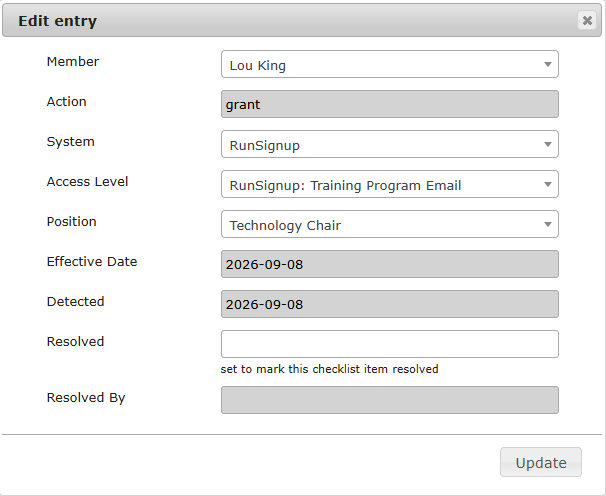
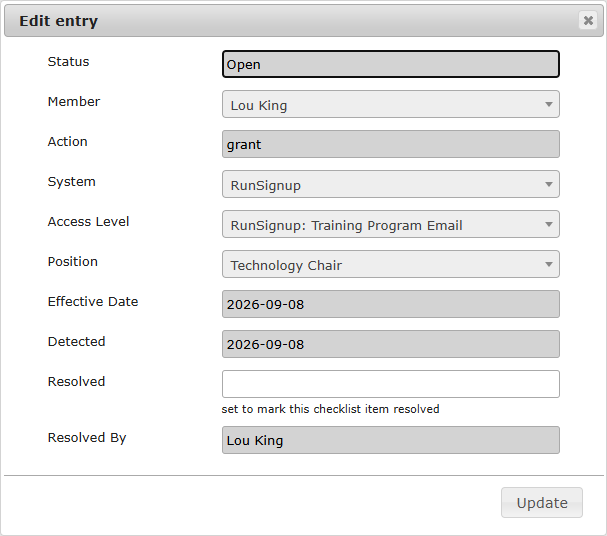
Fix Access Checklist filters and prevent editing system-generated fields (#716)
Filters: the four relationship columns' yadcf column_selector needed a
dotted path into the labelfield key ('user.name:name', not 'user:name') --
a single relationship cell's raw data is {"id":..,"<labelfield>":..}, not a
plain string, matching the convention distribution_yadcf_options already
uses. All five filters (including the checkbox-driven status default) were
bundled in one yadcf.init() call, so the four malformed selectors broke
that whole call, which is why the "show resolved entries" checkbox had no
visible effect either. Also declared the Status filter's two values
explicitly (data=['Open', 'Resolved']) rather than relying on yadcf's
auto-detection from whatever happens to be loaded, since a table with only
open or only resolved rows would otherwise have no option to filter to.

Read-only enforcement: 'type': 'readonly' on a clientcolumn only blocks
server-side writes for plain fields -- loutilities.tables' constructor
unconditionally makes a '_treatment': {'relationship': ...} field writable
regardless, with no readonly check in that code path at all. Confirmed
live: an admin could reassign a notice's Member/System/Access Level/
Position through the edit modal and have it silently persist. Fixed with
a validate= callback (positionaccessnotice_validate) that rejects the edit
if any of those four fields don't match the notice's current values, and
a ReadOnlySelect2 optionspicker (same pattern already used in
[…]

diff --git a/app/src/members/static/admin/afterdatatables.js b/app/src/members/static/admin/afterdatatables.js
@@ -686,5 +686,18 @@ function afterdatatables() {
                 yadcf.exFilterColumn(_dt_table, [[activecol, 'yes']]);
             }
         });
+
+    // special processing for access checklist -- hide resolved entries by default (see #716)
+    } else if (location.pathname.includes('/accesschecklist')) {
+        var statuscol = get_yadcf_col('status-filter');
+        yadcf.exFilterColumn(_dt_table, [[statuscol, 'Open']]);
+
+        $('#show-resolved-status').change(function() {
+            if ($('#show-resolved-status').is(':checked')) {
+                yadcf.exResetAllFilters(_dt_table, [statuscol])
+            } else {
+                yadcf.exFilterColumn(_dt_table, [[statuscol, 'Open']]);
+            }
+        });
     }
 }

diff --git a/app/src/members/views/admin/access_admin.py b/app/src/members/views/admin/access_admin.py
@@ -8,6 +8,7 @@ from datetime import date
 # pypi
 from flask import request
 from flask_security import current_user
+from dominate.tags import div, input_, label
 
 # homegrown
 from . import bp
@@ -21,6 +22,8 @@ from ...roles import ROLE_SYSTEMS_ADMIN
 from ...helpers import members_active
 from ...organization_access import compute_required_access, sync_access_notices
 
+from loutilities.filters import filtercontainerdiv, filterdiv, yadcfoption
+from loutilities.tables import DteDbRelationship
 from loutilities.user.roles import ROLE_SUPER_ADMIN
 from loutilities.user.tables import DbCrudApiInterestsRolePermissions
 
@@ -286,9 +289,9 @@ accesstype_view.register()
 ###########################################################################################
 
 positionaccessnotice_dbattrs = ('id,interest_id,user,system,accesslevel,action,reason_position,'
-                                 'effective_date,detected_at,resolved_at,__readonly__').split(',')
+                                 'effective_date,detected_at,resolved_at,__readonly__,status').split(',')
 positionaccessnotice_formfields = ('rowid,interest_id,user,system,accesslevel,action,reason_position,'
-                                    'effective_date,detected_at,resolved_at,resolvedby_display').split(',')
+                                    'effective_date,detected_at,resolved_at,resolvedby_display,status').split(',')
 positionaccessnotice_dbmapping = dict(zip(positionaccessnotice_dbattrs, positionaccessnotice_formfields))
 positionaccessnotice_formmapping = dict(zip(positionaccessnotice_formfields, positionaccessnotice_dbattrs))
 
@@ -307,6 +310,111 @@ positionaccessnotice_formmapping['resolved_at'] = lambda dbrow: dtrender.dt2asc(
     if dbrow.resolved_at else ''
 positionaccessnotice_formmapping['resolvedby_display'] = lambda dbrow: dbrow.resolved_by.name \
     if dbrow.resolved_by else ''
+# computed display/filter field -- not a real column, 'type': 'readonly' on the clientcolumn
+# makes the framework treat its dbattr as __readonly__ automatically (see position_formmapping's
+# 'users' for the same pattern). Used both to show status at a glance and as the target of the
+# hidden yadcf filter driving the "show resolved entries" checkbox -- see afterdatatables.js
+positionaccessnotice_formmapping['status'] = lambda dbrow: 'Resolved' if dbrow.resolved_at else 'Open'
+
+def positionaccessnotice_pretablehtml():
+    pretablehtml = div()
+    with pretablehtml:
+        # hide / show resolved entries -- unresolved-only is the normal working view
+        resolvedfilter = div(_class='checkbox-filter')
+        with resolvedfilter:
+            input_(type='checkbox', id='show-resolved-status', name='show-resolved-status', value='show-resolved')
+            label('Show resolved entries', _for='show-resolved-status')
+
+        with filtercontainerdiv(style='margin-bottom: 4px;'):
+            filterdiv('accesschecklist-external-filter-member', 'Member')
+            filterdiv('accesschecklist-external-filter-system', 'System')
+            filterdiv('accesschecklist-external-filter-accesslevel', 'Access Level')
+            filterdiv('accesschecklist-external-filter-position', 'Position')
+
+        # hidden -- driven by the show-resolved-status checkbox in afterdatatables.js, not
+        # shown as its own dropdown (the checkbox is the intended interaction)
+        with filtercontainerdiv(style='display:none;'):
+            filterdiv('status-filter', 'Status')
+
+    return pretablehtml.render()
+
+positionaccessnotice_yadcf_options = [
+    # dotted column_selector paths into each relationship's labelfield key -- a single
+    # (uselist=False) relationship cell's raw data is {"id":.., "<labelfield>":..}, e.g.
+    # accesslevel's is {"id":34,"label":"..."} since its labelfield is 'label'; yadcf needs
+    # the labelfield key specifically, not the whole object (same convention as
+    # distribution_yadcf_options' 'tags.tag:name'/'positions.position:name' above)
+    yadcfoption('user.name:name', 'accesschecklist-external-filter-member', 'multi_select',
+                placeholder='Select member', width='200px'),
+    yadcfoption('system.name:name', 'accesschecklist-external-filter-system', 'multi_select',
+                placeholder='Select system', width='200px'),
+    yadcfoption('accesslevel.label:name', 'accesschecklist-external-filter-accesslevel', 'multi_select',
+                placeholder='Select access level', width='200px'),
+    yadcfoption('reason_position.position:name', 'accesschecklist-external-filter-position', 'multi_select',
+                placeholder='Select position', width='200px'),
+    # data=[...] declares the two possible values explicitly rather than letting yadcf
+    # auto-detect them from what's currently in the table -- multi_select's dropdown only
+    # gets an 'Open'/'Resolved' option for values actually present in the loaded rows, so
+    # without this, exFilterColumn(..., 'Open') silently no-ops (nothing to select) whenever
+    # every currently-loaded row happens to already be resolved (or vice versa)
+    yadcfoption('status:name', 'status-filter', 'multi_select', uselist=True, placeholder='Select status',
+                data=['Open', 'Resolved']),
+]
+
+class ReadOnlySelect2(DteDbRelationship):
+    '''
+    'type': 'readonly' on a clientcolumn doesn't grey out a relationship-treatment field's
+    select2 widget in the Editor form (it's still fully interactive) -- disable it directly
+    instead, same pattern as leadership_tasks_admin.ReadOnlySelect2
+    '''
+    def col_options(self):
+        col = super().col_options()
+        col['opts']['disabled'] = True
+        return col
+
+# only Resolved should be editable on this view; every other field is system-generated.
+# 'type': 'readonly' on the other clientcolumns handles that correctly for plain fields, but
+# NOT for the four relationship-treatment ones (user/system/accesslevel/reason_position) --
+# loutilities.tables' constructor unconditionally makes a '_treatment': {'relationship': ...}
+# field writable server-side (self.dbmapping[dbattr] = thisreln.set), with no readonly check
+# at all. Confirmed live: an admin could reassign a notice's Member/System/Access Level/
+# Position via the edit modal and have it silently persist. A dbmapping patch on the view
+# instance doesn't help either -- Flask's MethodView.as_view() constructs a fresh instance
+# per request from the original constructor kwargs, so the one throwaway module-level
+# instance's dbmapping is never what actually serves a request. Reject the edit outright
+# instead, the same way systemaccesslevel_validate() above does. See louking/loutilities#109
+def positionaccessnotice_validate(action, formdata):
+    results = []
+    if action != 'edit':
+        return results
+
+    thisid = request.view_args.get('thisid')
+    notice = PositionAccessNotice.query.filter_by(id=thisid).one_or_none() if thisid else None
+    if not notice:
+        return results
+
+    def _submitted_id(field):
+        val = formdata.get(field) or {}
+        return val.get('id') if isinstance(val, dict) else val
+
+    for field, currentid in (
+        ('user', notice.user_id),
+        ('system', notice.system_id),
+        ('accesslevel', notice.accesslevel_id),
+        ('reason_position', notice.reason_position_id),
+    ):
+        submitted = _submitted_id(field)
+        if submitted is not None and str(submitted) != str(currentid):
+            # Editor's own field name for a relationship column is '<data>.<valuefield>'
+            # (valuefield defaults to 'id', not overridden for any of these four -- see the
+            # col['ed']['data'] renaming in loutilities.tables' relationship-treatment
+            # handling). A fieldError using the bare dbattr name ('user' instead of 'user.id')
+            # isn't a field Editor's client-side code recognizes, and it throws
+            # "Uncaught Error: Unknown field: user" trying to process the response -- confirmed
+            # live
+            results.append({'name': f'{field}.id', 'status': 'this field is set automatically and cannot be changed'})
+
+    return results
 
 class PositionAccessNoticeView(DbCrudApiInterestsRolePermissions):
     def editor_method_prehook(self, form):
@@ -351,36 +459,51 @@ positionaccessnotice_view = PositionAccessNoticeView(
     dbmapping=positionaccessnotice_dbmapping,
     formmapping=positionaccessnotice_formmapping,
     checkrequired=False,
+    validate=positionaccessnotice_validate,
+    pretablehtml=positionaccessnotice_pretablehtml,
+    yadcfoptions=positionaccessnotice_yadcf_options,
     clientcolumns=[
+        {'data': 'status', 'name': 'status', 'label': 'Status', 'type': 'readonly'},
         {'data': 'user', 'name': 'user', 'label': 'Member', 'type': 'readonly',
          '_treatment': {
-             'relationship': {'fieldmodel': LocalUser, 'labelfield': 'name', 'formfield': 'user',
-                              'dbfield': 'user', 'uselist': False,
-                              'searchbox': True,
-                              'queryparams': localinterest_query_params,
-                              }}
+             'relationship': {
+                 'optionspicker': ReadOnlySelect2(
+                     fieldmodel=LocalUser, labelfield='name', formfield='user',
+                     dbfield='user', uselist=False,
+                     queryparams=localinterest_query_params,
+                 )
+             }}
          },
         {'data': 'action', 'name': 'action', 'label': 'Action', 'type': 'readonly'},
         {'data': 'system', 'name': 'system', 'label': 'System', 'type': 'readonly',
          '_treatment': {
-             'relationship': {'fieldmodel': System, 'labelfield': 'name', 'formfield': 'system',
-                              'dbfield': 'system', 'uselist': False,
-                              'queryparams': localinterest_query_params,
-                              }}
+             'relationship': {
+                 'optionspicker': ReadOnlySelect2(
+                     fieldmodel=System, labelfield='name', formfield='system',
+                     dbfield='system', uselist=False,
+                     queryparams=localinterest_query_params,
+                 )
+             }}
          },
         {'data': 'accesslevel', 'name': 'accesslevel', 'label': 'Access Level', 'type': 'readonly',
          '_treatment': {
-             'relationship': {'fieldmodel': SystemAccessLevel, 'labelfield': 'label', 'formfield': 'accesslevel',
-                              'dbfield': 'accesslevel', 'uselist': False,
-                              'queryparams': localinterest_query_params,
-                              }}
+             'relationship': {
+                 'optionspicker': ReadOnlySelect2(
+                     fieldmodel=SystemAccessLevel, labelfield='label', formfield='accesslevel',
+                     dbfield='accesslevel', uselist=False,
+                     queryparams=localinterest_query_params,
+                 )
+             }}
          },
         {'data': 'reason_position', 'name': 'reason_position', 'label': 'Position', 'type': 'readonly',
          '_treatment': {
-             'relationship': {'fieldmodel': Position, 'labelfield': 'position', 'formfield': 'reason_position',
-                              'dbfield': 'reason_position', 'uselist': False,
-                              'queryparams': localinterest_query_params,
-                              }}
+             'relationship': {
+                 'optionspicker': ReadOnlySelect2(
+                     fieldmodel=Position, labelfield='position', formfield='reason_position',
+                     dbfield='reason_position', uselist=False,
+                     queryparams=localinterest_query_params,
+                 )
+             }}
          },
         {'data': 'effective_date', 'name': 'effective_date', 'label': 'Effective Date', 'type': 'readonly'},
         {'data': 'detected_at', 'name': 'detected_at', 'label': 'Detected', 'type': 'readonly'},

diff --git a/test/test_access_admin.py b/test/test_access_admin.py
@@ -4,14 +4,14 @@ test_access_admin - test members.views.admin.access_admin
 '''
 
 # standard
-from datetime import date
+from datetime import date, datetime, timezone
 
 # pypi
 import pytest
 from flask import g
 
 # homegrown
-from members.views.admin.access_admin import systemaccesslevel_validate, accesstype_view
+from members.views.admin.access_admin import systemaccesslevel_validate, accesstype_view, positionaccessnotice_validate
 from members.model import db, LocalInterest, LocalUser, Position, UserPosition, System, SystemAccessLevel, AccessType
 from members.model import PositionAccessNotice, POSITIONACCESSNOTICE_ACTION_GRANT, POSITIONACCESSNOTICE_ACTION_REVOKE
 from loutilities.user.model import Interest
@@ -186,3 +186,98 @@ def test_accesstypeview_edit_no_notice_when_access_unaffected(accesstypesetup, b
         db.session.commit()
 
     assert PositionAccessNotice.query.filter_by(user=member).count() == 0
+
+
+# ----------------------------------------------------------------------
+# PositionAccessNoticeView -- only Resolved should be editable. Confirmed live: 'type':
+# 'readonly' on a relationship-treatment clientcolumn (user/system/accesslevel/
+# reason_position) is purely cosmetic in loutilities.tables -- the constructor unconditionally
+# makes it writable server-side regardless, so without the dbmapping patch in access_admin.py,
+# an admin could reassign a notice's Member/System/Access Level/Position via the edit modal
+# and have it silently persist. See louking/loutilities#109
+# ----------------------------------------------------------------------
+
+@pytest.fixture
+def noticesetup(bare_dbapp):
+    interest_row = Interest(interest='fsrc', description='FSRC')
+    localinterest = LocalInterest(interest_id=None)
+    db.session.add_all([interest_row, localinterest])
+    db.session.commit()
+    localinterest.interest_id = interest_row.id
+    db.session.commit()
+    g.interest = 'fsrc'
+
+    system1 = System(name='MailChimp', slug='mailchimp', interest=localinterest)
+    system2 = System(name='RunSignUp', slug='runsignup', interest=localinterest)
+    level1 = SystemAccessLevel(system=system1, name='Admin', slug='admin', interest=localinterest)
+    level2 = SystemAccessLevel(system=system2, name='Admin', slug='admin', interest=localinterest)
+    position1 = Position(position='Race Director', interest=localinterest)
+    position2 = Position(position='Membership Chair', interest=localinterest)
+    member1 = LocalUser(name='Jane Doe', email='jane@example.com', active=True, interest=localinterest)
+    member2 = LocalUser(name='John Smith', email='john@example.com', active=True, interest=localinterest)
+    db.session.add_all([system1, system2, level1, level2, position1, position2, member1, member2])
+    db.session.commit()
+
+    notice = PositionAccessNotice(
+        interest=localinterest, user=member1, system=system1, accesslevel=level1,
+        action=POSITIONACCESSNOTICE_ACTION_GRANT, reason_position=position1,
+        effective_date=date(2026, 1, 1), detected_at=datetime.now(timezone.utc).replace(tzinfo=None),
+    )
+    db.session.add(notice)
+    db.session.commit()
+
+    # positionaccessnotice_validate() reads request.view_args['thisid'] for edit actions,
+    # which only gets populated by real route matching
+    bare_dbapp.add_url_rule('/rest/<thisid>', endpoint='dummy_notice_rest', view_func=lambda **kw: '')
+
+    return {
+        'localinterest': localinterest, 'notice': notice, 'member1': member1, 'member2': member2,
+        'system1': system1, 'system2': system2, 'level1': level1, 'level2': level2,
+        'position1': position1, 'position2': position2,
+    }
+
+
+def test_edit_rejects_reassigned_relationship_fields(noticesetup, bare_dbapp):
+    notice = noticesetup['notice']
+
+    # exactly what the edit modal in the screenshots submitted: a different member, system,
+    # access level, and position, alongside a legitimate resolved_at change
+    formdata = {
+        'user': {'id': str(noticesetup['member2'].id)},
+        'system': {'id': str(noticesetup['system2'].id)},
+        'accesslevel': {'id': str(noticesetup['level2'].id)},
+        'reason_position': {'id': str(noticesetup['position2'].id)},
+        'resolved_at': '2026-09-08',
+    }
+    with bare_dbapp.test_request_context(f'/rest/{notice.id}'):
+        results = positionaccessnotice_validate('edit', formdata)
+
+    fields_flagged = {r['name'] for r in results}
+    # '.id' suffix matches Editor's own field name for a relationship column (valuefield
+    # defaults to 'id') -- a bare 'user' fieldError isn't a field Editor's client-side code
+    # recognizes and throws "Uncaught Error: Unknown field: user" trying to process it
+    assert fields_flagged == {'user.id', 'system.id', 'accesslevel.id', 'reason_position.id'}
+
+
+def test_edit_allows_resolved_at_only_change(noticesetup, bare_dbapp):
+    notice = noticesetup['notice']
+
+    # unchanged relationship fields (matching current values) plus a legitimate resolved_at
+    # edit -- the only kind of edit this view should actually accept
+    formdata = {
+        'user': {'id': str(noticesetup['member1'].id)},
+        'system': {'id': str(noticesetup['system1'].id)},
+        'accesslevel': {'id': str(noticesetup['level1'].id)},
+        'reason_position': {'id': str(noticesetup['position1'].id)},
+        'resolved_at': '2026-09-08',
+    }
+    with bare_dbapp.test_request_context(f'/rest/{notice.id}'):
+        results = positionaccessnotice_validate('edit', formdata)
+
+    assert results == []
+
+
+def test_validate_noop_on_create(noticesetup, bare_dbapp):
+    with bare_dbapp.test_request_context('/'):
+        results = positionaccessnotice_validate('create', {})
+    assert results == []

diff --git a/docs/systems-admin-reference.rst b/docs/systems-admin-reference.rst
@@ -117,6 +117,9 @@ take in the real external systems, generated automatically when a :term:`member'
 <position>` change in a way that changes what access they need -- see :ref:`Access Checklist Guide`. Every
 field except **Resolved** is set automatically and can't be edited.
 
+    :Status:
+        **Open** while the entry is still outstanding, **Resolved** once **Resolved** below has been set
+
     :Member:
         the :term:`member` whose required access changed
 
@@ -144,6 +147,24 @@ field except **Resolved** is set automatically and can't be edited.
 
     :Resolved By:
         the :term:`member` who resolved this entry, filled in automatically when **Resolved** is set
+
+The view has the following filters:
+
+    :Show resolved entries:
+        by default only unresolved entries are shown, since that's the normal working view -- check this to
+        also see entries that have already been checked off
+
+    :Member:
+        the :term:`member` of interest
+
+    :System:
+        the :term:`system` of interest
+
+    :Access Level:
+        the :term:`access level` of interest
+
+    :Position:
+        the :term:`position` of interest
 
 .. image:: images/access-checklist-view.*
     :align: center
